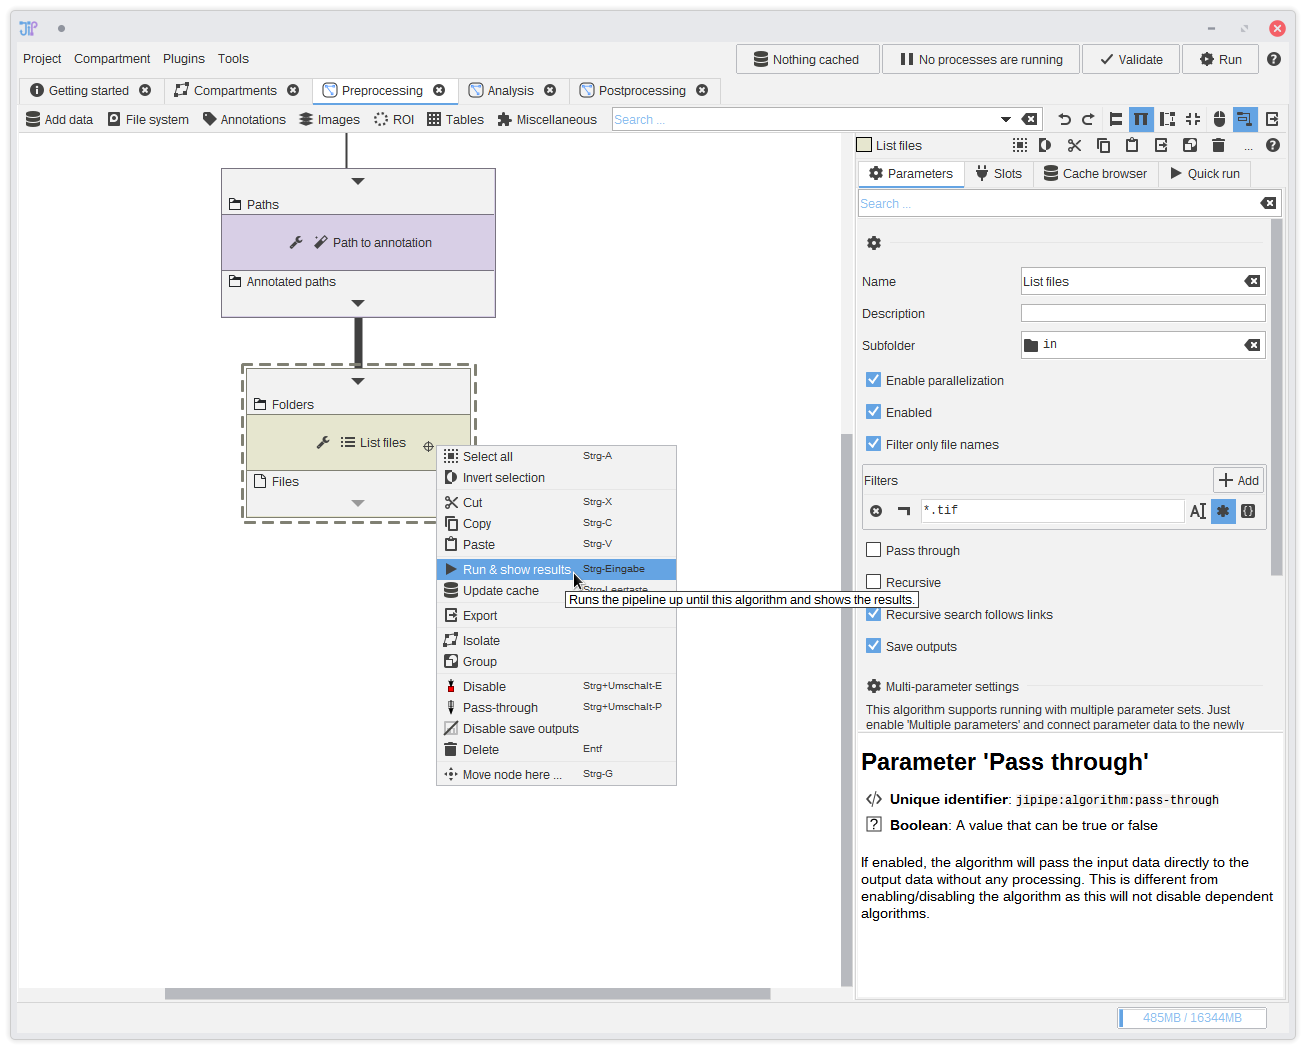
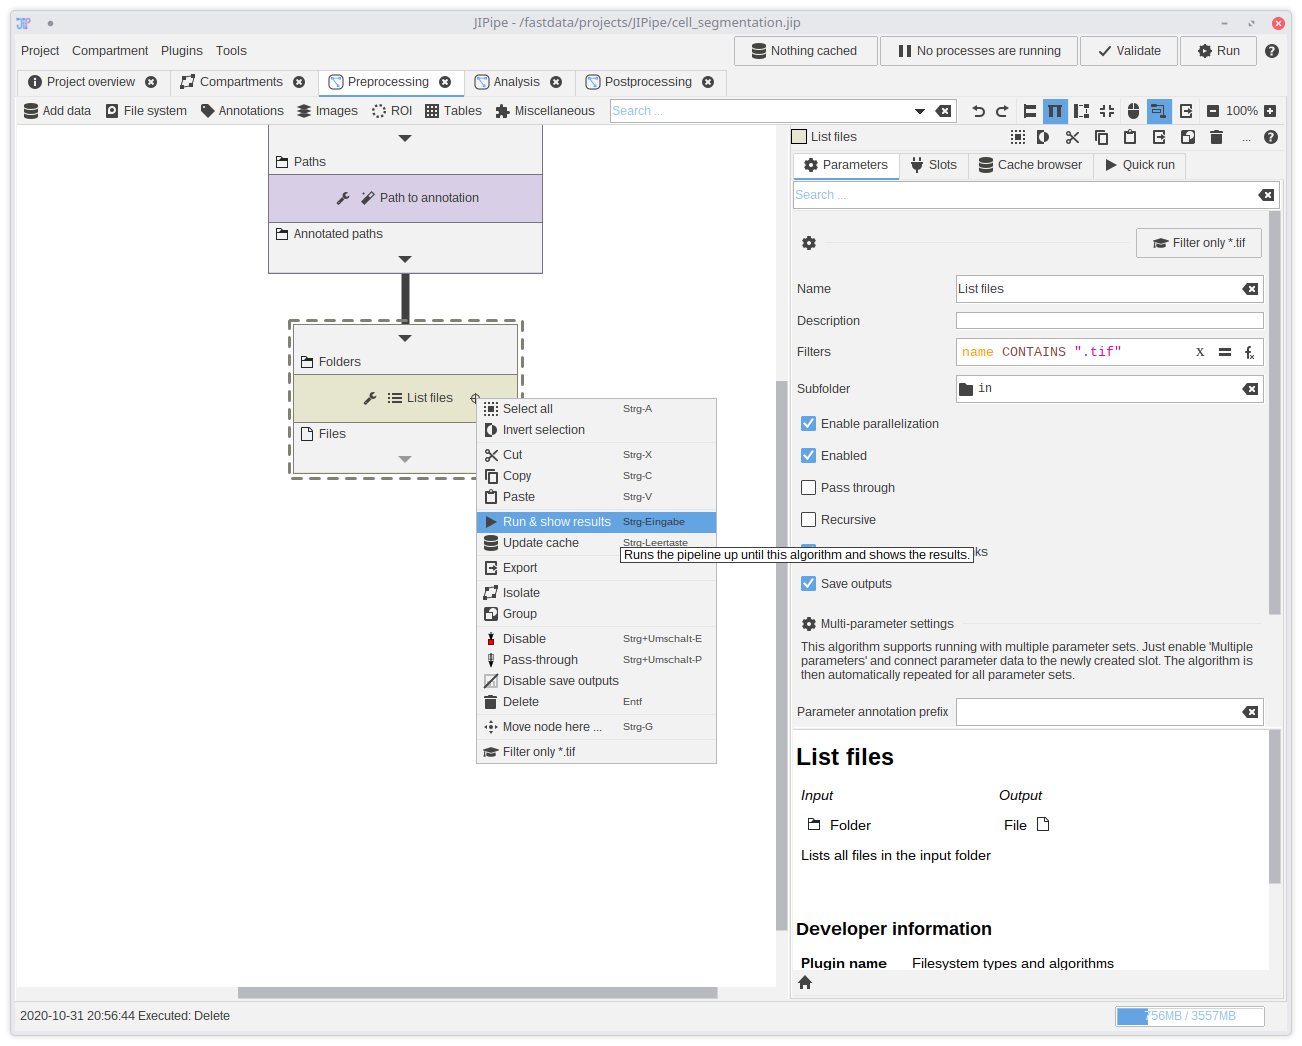
* updated documentation

diff --git a/static/css/custom.css b/static/css/custom.css
@@ -583,3 +583,7 @@ New landing page
 .examples .downloads a {
   margin: 0.25rem;
 }
+
+code {
+  background-color: #e3dfe7;
+}

diff --git a/content/documentation/expressions.md b/content/documentation/expressions.md
@@ -83,28 +83,29 @@ There are many operators with alternative ways to write them available. There ar
 The difference between the operators is that symbolic operators can be written without spaces. For example you can write `5+5` or `!x`.
 Textual operators require spaces to be separated. For example you cannot write `NOTx`. You have to write `NOT x`.
 
-| Operator                                | Description                                                                                                              | Usage                      |
-| --------------------------------------- | ------------------------------------------------------------------------------------------------------------------------ | -------------------------- |
-| Logical AND                             | Returns TRUE if both operands are TRUE                                                                                   | `x AND y` or `x & y`       |
-| Logical OR                              | Returns TRUE if one of the operands is TRUE                                                                              | `x OR y` or `x | y`        |
-| Logical XOR                             | Returns TRUE if exactly one operand is TRUE                                                                              | `x XOR y`                  |
-| Logical NOT                             | Returns TRUE if input is FALSE and vice versa                                                                            | `NOT x` or `! x`           |
-| Numeric division                        | Divides the left by the right operand                                                                                    | `x / y`                    |
-| Numeric exponent                        | Calculates left to the power of the right operand                                                                        | `x ^ y`                    |
-| Numeric subtraction                     | Subtracts right from left                                                                                                | `x - y`                    |
-| Numeric multiplication                  | Multiplies the two operands                                                                                              | `x * y`                    |
-| Numeric addition / String concatenation | Adds two numbers. Concatenates if the operands are strings.                                                              | `x + y`                    |
-| Numeric greater than                    | Returns TRUE if the left operand is greater than the right one                                                           | `x > y`                    |
-| Numeric greater or equal                | Returns TRUE if the left operand is greater or equal to the right                                                        | `x >= y`                   |
-| Numeric less than                       | Returns TRUE if the left operand is less than the right one                                                              | `x < y`                    |
-| Numeric less or equal                   | Returns TRUE if the left operand is less or equal to the right one                                                       | `x <= y`                   |
-| Numeric / String / Boolean equality     | Returns TRUE if the operands are equal                                                                                   | `x == y` or `x EQUALS y`   |
-| Numeric / String / Boolean inequality   | Returns TRUE if the operands are unequal                                                                                 | `x != y` or `x UNEQUAL y`  |
-| Numeric negation                        | This is technically an operator                                                                                          | `-x`                       |
-| Numeric modulo                          | Calculates the modulo                                                                                                    | `x % y`                    |
-| String contains                         | Returns TRUE if the one string is contained in the other one                                                             | `x IN y` or `y CONTAINS x` |
-| Variable exists                         | Returns TRUE if the a variable with the name exists                                                                      | `x EXISTS`                 |
-| Resolve variable                        | Returns the value of the variable with name. Useful for variables that have spaces in their names or special characters. | `$ x`                      |
+| Operator                                                       | Description                                                                                                                                                  | Usage                      |
+| -------------------------------------------------------------- | ------------------------------------------------------------------------------------------------------------------------------------------------------------ | -------------------------- |
+| Logical AND                                                    | Returns TRUE if both operands are TRUE                                                                                                                       | `x AND y` or `x & y`       |
+| Logical OR                                                     | Returns TRUE if one of the operands is TRUE                                                                                                                  | `x OR y` or `x | y`        |
+| Logical XOR                                                    | Returns TRUE if exactly one operand is TRUE                                                                                                                  | `x XOR y`                  |
+| Logical NOT                                                    | Returns TRUE if input is FALSE and vice versa                                                                                                                | `NOT x` or `! x`           |
+| Numeric division                                               | Divides the left by the right operand                                                                                                                        | `x / y`                    |
+| Numeric exponent                                               | Calculates left to the power of the right operand                                                                                                            | `x ^ y`                    |
+| Numeric subtraction / Array removal                            | Subtracts right from left (Numbers). If the operands are arrays, the right items are removed from the left array                                             | `x - y`                    |
+| Numeric multiplication                                         | Multiplies the two operands                                                                                                                                  | `x * y`                    |
+| Numeric addition / String concatenation / Array concatentation | Adds two numbers. Concatenates if the operands are strings. Merges two arrays                                                                                | `x + y`                    |
+| Numeric greater than                                           | Returns TRUE if the left operand is greater than the right one                                                                                               | `x > y`                    |
+| Numeric greater or equal                                       | Returns TRUE if the left operand is greater or equal to the right                                                                                            | `x >= y`                   |
+| Numeric less than                                              | Returns TRUE if the left operand is less than the right one                                                                                                  | `x < y`                    |
+| Numeric less or equal                                          | Returns TRUE if the left operand is less or equal to the right one                                                                                           | `x <= y`                   |
+| Numeric / String / Boolean equality                            | Returns TRUE if the operands are equal                                                                                                                       | `x == y` or `x EQUALS y`   |
+| Numeric / String / Boolean inequality                          | Returns TRUE if the operands are unequal                                                                                                                     | `x != y` or `x UNEQUAL y`  |
+| Numeric negation                                               | This is technically an operator                                                                                                                              | `-x`                       |
+| Numeric modulo                                                 | Calculates the modulo                                                                                                                                        | `x % y`                    |
+| String contains                                                | Returns TRUE if the one string is contained in the other one                                                                                                 | `x IN y` or `y CONTAINS x` |
+| Variable exists                                                | Returns TRUE if the a variable with the name exists                                                                                                          | `x EXISTS`                 |
+| Resolve variable                                               | Returns the value of the variable with name. Useful for variables that have spaces in their names or special characters.                                     | `$ x`                      |
+| Get item in array                                              | Returns the array item(s) or string characters of the left operands. The right-hand side can be a number (the index starting from 0) or an array of indices. | `x @ y`                    |
 
 ## Precedence
 
@@ -112,47 +113,48 @@ The operators are ordered according to a precedence table. You might need to use
 
 The higher the number is the more the operator is preferred.
 
-| 1   | 2   | 3   | 4   | 5                              | 6                              | 7                          | 8   | 9           | 10                     |
-| --- | --- | --- | --- | ------------------------------ | ------------------------------ | -------------------------- | --- | ----------- | ---------------------- |
-| OR  | AND | NOT |     |                                |                                |                            |     |             |                        |
-|     | XOR |     |     |                                |                                |                            |     |             |                        |
-|     |     |     |     |                                | Subtraction (x - y)            | Divide (x / y)             |     | Power (x^y) | Negate (-x)            |
-|     |     |     |     |                                |                                | Modulo (x % y)             |     |             |                        |
-|     |     |     |     |                                |                                | Multiply (x * y)           |     |             |                        |
-|     |     |     |     | Greater than or equal (x >= y) |                                |                            |     |             |                        |
-|     |     |     |     | Greater than (x > y)           |                                |                            |     |             |                        |
-|     |     |     |     | Less than or equal (x <= y)    |                                |                            |     |             |                        |
-|     |     |     |     | Less than (x < y)              |                                |                            |     |             |                        |
-|     |     |     |     | Equal (x == y)                 |                                |                            |     |             |                        |
-|     |     |     |     | Unequal (x != y)               |                                |                            |     |             |                        |
-|     |     |     |     |                                | String contains (x IN y)       |                            |     |             |                        |
-|     |     |     |     |                                | Addition (x + y)               |                            |     |             |                        |
-|     |     |     |     |                                | String contains (x CONTAINS y) |                            |     |             |                        |
-|     |     |     |     |                                |                                | Variable exists (x EXISTS) |     |             |                        |
-|     |     |     |     |                                |                                |                            |     |             | Variable resolve ($ x) |
+| 1   | 2   | 3   | 4   | 5                              | 6                              | 7                          | 8   | 9                    | 10                     |
+| --- | --- | --- | --- | ------------------------------ | ------------------------------ | -------------------------- | --- | -------------------- | ---------------------- |
+| OR  | AND | NOT |     |                                |                                |                            |     |                      |                        |
+|     | XOR |     |     |                                |                                |                            |     |                      |                        |
+|     |     |     |     |                                | Subtraction (x - y)            | Divide (x / y)             |     | Power (x^y)          | Negate (-x)            |
+|     |     |     |     |                                |                                | Modulo (x % y)             |     |                      |                        |
+|     |     |     |     |                                |                                | Multiply (x * y)           |     |                      |                        |
+|     |     |     |     | Greater than or equal (x >= y) |                                |                            |     |                      |                        |
+|     |     |     |     | Greater than (x > y)           |                                |                            |     |                      |                        |
+|     |     |     |     | Less than or equal (x <= y)    |                                |                            |     |                      |                        |
+|     |     |     |     | Less than (x < y)              |                                |                            |     |                      |                        |
+|     |     |     |     | Equal (x == y)                 |                                |                            |     |                      |                        |
+|     |     |     |     | Unequal (x != y)               |                                |                            |     |                      |                        |
+|     |     |     |     |                                | String contains (x IN y)       |                            |     |                      |                        |
+|     |     |     |     |                                | Addition (x + y)               |                            |     |                      |                        |
+|     |     |     |     |                                | String contains (x CONTAINS y) |                            |     |                      |                        |
+|     |     |     |     |                                |                                | Variable exists (x EXISTS) |     |                      |                        |
+|     |     |     |     |                                |                                |                            |     | Array access (x @ y) | Variable resolve ($ x) |
 
 
 ## Compatible types
 
 Not all operators are compatible to all types. See following table for the operator's behavior:
 
-| Operator                                | Number                      | Boolean                     | String                                           |
-| --------------------------------------- | --------------------------- | --------------------------- | ------------------------------------------------ |
-| AND                                     | Error                       | OK                          | Error                                            |
-| NOT                                     | Error                       | OK                          | Error                                            |
-| OR                                      | Error                       | OK                          | Error                                            |
-| XOR                                     | Error                       | OK                          | Error                                            |
-| Divide (x / y)                          | OK                          | OK (TRUE=1, FALSE=0)        | Works (If can be converted to number)            |
-| Multiply (x * y)                        | OK                          | OK (TRUE=1, FALSE=0)        | Works (If can be converted to number)            |
-| Modulo (x % y)                          | OK                          | OK (TRUE=1, FALSE=0)        | Works (If can be converted to number)            |
-| Subtract (x - y)                        | OK                          | OK (TRUE=1, FALSE=0)        | Works (If can be converted to number)            |
-| Addition (x + y)                        | OK                          | OK (TRUE=1, FALSE=0)        | OK (Conversion to strings, string concatenation) |
-| Equality (x == y)                       | OK                          | OK                          | OK (If types differ, conversion to strings)      |
-| Inequality (x != y)                     | OK                          | OK                          | OK                                               |
-| String contains (x IN y / x CONTAINS y) | Error                       | Error                       | OK                                               |
-| Less than (x < y)                       | OK                          | OK (TRUE=1, FALSE=0)        | Error                                            |
-| Less than or equal (x <= y)             | OK                          | OK (TRUE=1, FALSE=0)        | Error                                            |
-| Greater than (x > y)                    | OK                          | OK (TRUE=1, FALSE=0)        | Error                                            |
-| Greater than or equal (x >= y)          | OK                          | OK (TRUE=1, FALSE=0)        | Error                                            |
-| Variable exists (x EXISTS)              | Works (Converted to string) | Works (Converted to string) | OK                                               |
-| Variable resolve ($ x)                  | Works (Converted to string) | Works (Converted to string) | OK                                               |
+| Operator                         | Number                      | Boolean                     | String                                           | Array                         |
+| -------------------------------- | --------------------------- | --------------------------- | ------------------------------------------------ | ----------------------------- |
+| AND                              | Error                       | OK                          | Error                                            | Error                         |
+| NOT                              | Error                       | OK                          | Error                                            | Error                         |
+| OR                               | Error                       | OK                          | Error                                            | Error                         |
+| XOR                              | Error                       | OK                          | Error                                            | Error                         |
+| Divide (x / y)                   | OK                          | OK (TRUE=1, FALSE=0)        | Works (If can be converted to number)            | Error                         |
+| Multiply (x * y)                 | OK                          | OK (TRUE=1, FALSE=0)        | Works (If can be converted to number)            | Error                         |
+| Modulo (x % y)                   | OK                          | OK (TRUE=1, FALSE=0)        | Works (If can be converted to number)            | Error                         |
+| Subtract (x - y)                 | OK                          | OK (TRUE=1, FALSE=0)        | Works (If can be converted to number)            | OK (both operands are arrays) |
+| Addition (x + y)                 | OK                          | OK (TRUE=1, FALSE=0)        | OK (Conversion to strings, string concatenation) | OK (both operands are arrays) |
+| Equality (x == y)                | OK                          | OK                          | OK (If types differ, conversion to strings)      | OK                            |
+| Inequality (x != y)              | OK                          | OK                          | OK                                               | OK                            |
+| Contains (x IN y / x CONTAINS y) | Error                       | Error                       | OK                                               | OK                            |
+| Less than (x < y)                | OK                          | OK (TRUE=1, FALSE=0)        | Error                                            | Error                         |
+| Less than or equal (x <= y)      | OK                          | OK (TRUE=1, FALSE=0)        | Error                                            | Error                         |
+| Greater than (x > y)             | OK                          | OK (TRUE=1, FALSE=0)        | Error                                            | Error                         |
+| Greater than or equal (x >= y)   | OK                          | OK (TRUE=1, FALSE=0)        | Error                                            | Error                         |
+| Variable exists (x EXISTS)       | Works (Converted to string) | Works (Converted to string) | OK                                               | Error                         |
+| Variable resolve ($ x)           | Works (Converted to string) | Works (Converted to string) | OK                                               | Error                         |
+| Get item in array (x @ y)        | Error                       | Error                       | Error                                            | OK                            |

diff --git a/content/tutorials/analysis.md b/content/tutorials/analysis.md
@@ -130,10 +130,16 @@ lastmodifieremail = "ruman.gerst@leibniz-hki.de"
       You can find an algorithm designed for such purposed in <code>File system &gt; List &gt; List files</code>. Add it to the graph and connect it to the <code>Subfolder name</code> output.
       This algorithm is not only able to list files, but also filter them directly.<br/>
       In this case, we exactly know that our files are located within a sub-folder <code>in</code>. Please update the <strong>Subfolder</strong> parameter by setting it to <code>in</code>.
-      To filter the correct input files, click <i class="fa fa-plus"></i> <strong>Add</strong>. Then select <i class="fa fa-asterisk"></i> to switch to a <a href="https://en.wikipedia.org/wiki/Glob_(programming)" target="_blank">glob</a>/wildcard filter and set the filter string to <code>*.tif</code>.
+      The filter uses an <a href="/documentation/expressions">expression</a> that allows highly flexible filters. But for this example, we only want to test if the filename contains <code>.tif</code>.
+      To do this, type <code>name CONTAINS ".tif"</code> into the filter box.
       <div class="notices tip">
         <p>
           If you have more complicate folder structures, you can apply the "Navigate to sub-folder" operation with a distinct algorithm. You can find it in the Filesytem category.
+        </p>
+      </div>
+      <div class="notices tip">
+        <p>
+          We highly recommend that you get familiar with expressions, as they are present in most filtering or generation nodes. They are easy to learn and write, but also allow extremely powerful operations.
         </p>
       </div>
   </div>
